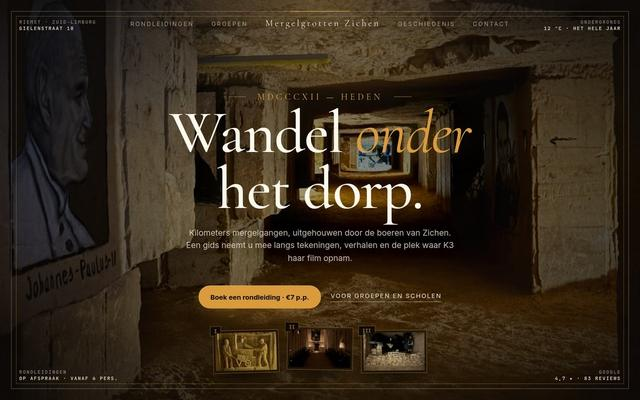
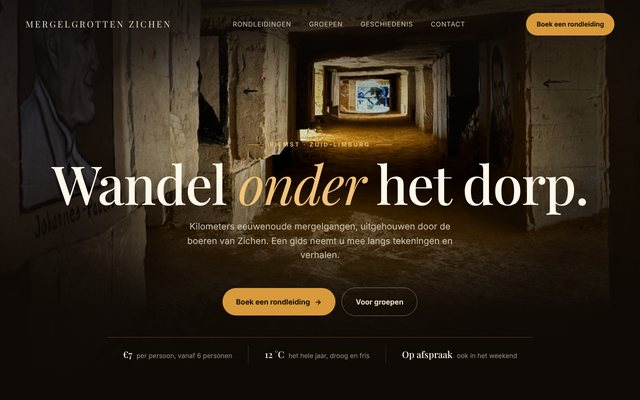
New heroes for Tuinwerken Stas and Mergelgrotten Zichen, only the name under the portrait
Claude-Session: https://claude.ai/code/session_01R6zwQt23oCatvcwJNom8GD

diff --git a/v3/demos/mergel/index.html b/v3/demos/mergel/index.html
@@ -41,6 +41,32 @@ h1 em{font-style:italic;color:var(--amber-2);font-weight:400}
 .band article{border-left:1px solid rgba(217,154,59,.4);padding-left:1.4rem}
 .band h3{font-size:1.5rem;color:#FFF7EA}.band p{margin:.5rem 0 0;font-size:.92rem;color:rgba(234,223,203,.75)}
 </style>
+<style>
+.hx{position:relative;min-height:100vh;min-height:100svh;display:flex;flex-direction:column;align-items:center;justify-content:flex-end;text-align:center;overflow:hidden;background:var(--black)}
+.hx__img{position:absolute;inset:0;width:100%;height:100%;object-fit:cover;object-position:50% 62%}
+.hx::before{content:"";position:absolute;inset:0;z-index:1;background:radial-gradient(42% 46% at 50% 44%,rgba(15,10,6,0) 0%,rgba(15,10,6,.35) 60%,rgba(15,10,6,.8) 100%),linear-gradient(180deg,rgba(15,10,6,.55) 0%,rgba(15,10,6,0) 22%,rgba(15,10,6,0) 42%,rgba(15,10,6,.9) 78%,#0F0A06 100%)}
+.hx__in{position:relative;z-index:2;display:flex;flex-direction:column;align-items:center;padding:0 6vw 2.6rem}
+.hx .kick::after{content:"";width:2rem;height:1px;background:var(--amber)}
+.hx h1{font-size:clamp(3.4rem,8.4vw,8.6rem);max-width:none;margin-top:1rem;line-height:.95;text-shadow:0 10px 50px rgba(0,0,0,.5)}
+.hx .lead{max-width:36rem;margin-left:auto;margin-right:auto}
+.hx .cta{justify-content:center}
+.hx__info{position:relative;z-index:2;list-style:none;margin:0 0 4.6rem;padding:1rem 0 0;display:flex;gap:0;border-top:1px solid rgba(217,154,59,.3)}
+.hx__info li{padding:.2rem 2rem;font-size:.82rem;color:var(--mute)}
+.hx__info li+li{border-left:1px solid rgba(234,223,203,.16)}
+.hx__info b{font-family:var(--serif);font-weight:500;font-size:1.15rem;color:#FFF7EA;margin-right:.3rem}
+@media (max-width:900px){
+ .hx{display:block;min-height:auto}
+ .hx__img{position:relative;height:56vh;min-height:380px;object-position:50% 55%}
+ .hx::before{inset:0 0 auto 0;height:56vh;min-height:380px;background:linear-gradient(180deg,rgba(15,10,6,.6) 0%,rgba(15,10,6,0) 22%,rgba(15,10,6,0) 55%,#0F0A06 100%)}
+ .hx__in{margin-top:-5.5rem}
+ .logo{font-size:.95rem;letter-spacing:.14em;max-width:11rem;line-height:1.3}
+ .hx h1{font-size:clamp(3rem,15vw,4.4rem)}
+ .hx__in{padding:0 6vw 1.8rem}
+ .hx .lead{font-size:1rem}
+ .hx__info{flex-direction:column;gap:.5rem;border-top:0;margin-bottom:5.2rem;padding:0}
+ .hx__info li,.hx__info li+li{border:0;padding:0}
+}
+</style>
 </head>
 <body>
 <header class="top">
@@ -48,22 +74,19 @@ h1 em{font-style:italic;color:var(--amber-2);font-weight:400}
   <nav class="nav"><a>Rondleidingen</a><a>Groepen</a><a>Geschiedenis</a><a>Contact</a></nav>
   <a class="pill" href="#">Boek een rondleiding</a>
 </header>
-<section class="hero">
-  <img src="img/01.jpg" alt="">
-  <div class="hero__in">
-    <div>
-      <span class="kick">Riemst · Zuid-Limburg</span>
-      <h1>Wandel <em>onder</em> het dorp.</h1>
-      <p class="lead">Kilometers eeuwenoude mergelgangen, uitgehouwen door de boeren van Zichen. Een gids neemt u mee langs tekeningen, verhalen en plekken waar de zon altijd schijnt: ondergronds.</p>
-      <div class="cta"><a class="btn btn--a" href="#">Boek een rondleiding →</a><a class="btn btn--g" href="#">Voor groepen</a><span class="price"><b>€7</b> per persoon, vanaf 6</span></div>
-    </div>
-    <div class="rev">
-      <div class="score"><b>4,7</b><span><span class="stars">★★★★★</span><small>83 Google-reviews</small></span></div>
-      <p>“We wisten niet wat ons te wachten stond, maar stonden met onze mond vol tanden vanaf dat we naar beneden wandelden.”</p>
-      <cite>Keennan D.</cite>
-    </div>
+<section class="hx">
+  <img class="hx__img" src="img/01.jpg" alt="Verlichte mergelgang onder Zichen">
+  <div class="hx__in">
+    <span class="kick">Riemst · Zuid-Limburg</span>
+    <h1>Wandel <em>onder</em> het dorp.</h1>
+    <p class="lead">Kilometers eeuwenoude mergelgangen, uitgehouwen door de boeren van Zichen. Een gids neemt u mee langs tekeningen en verhalen.</p>
+    <div class="cta"><a class="btn btn--a" href="#">Boek een rondleiding <span aria-hidden="true">→</span></a><a class="btn btn--g" href="#">Voor groepen</a></div>
   </div>
-  <div class="facts"><div><b>12 °C</b>het hele jaar, droog en fris</div><div><b>Op afspraak</b>ook in het weekend</div><div><b>Families &amp; groepen</b>scholen, bedrijven, verenigingen</div><div><b>K3</b>nam hier haar film op</div></div>
+  <ul class="hx__info">
+    <li><b>€7</b> per persoon, vanaf 6 personen</li>
+    <li><b>12 °C</b> het hele jaar, droog en fris</li>
+    <li><b>Op afspraak</b> ook in het weekend</li>
+  </ul>
 </section>
 <section class="sec">
   <div>

diff --git a/v3/demos/stas/index.html b/v3/demos/stas/index.html
@@ -42,6 +42,28 @@ h1 em{font-style:italic;color:#DCC6A6}
 .quote cite b{display:block;color:var(--ink);font-weight:700}
 .quote img{width:100%;aspect-ratio:4/5;object-fit:cover;border-radius:1rem}
 </style>
+<style>
+.hx{position:relative;min-height:100vh;min-height:100svh;display:flex;flex-direction:column;justify-content:flex-end;color:#fff;overflow:hidden;background:var(--moss)}
+.hx__img{position:absolute;inset:0;width:100%;height:100%;object-fit:cover;object-position:62% 58%;transform:scale(1.02)}
+.hx::before{content:"";position:absolute;inset:0;z-index:1;background:linear-gradient(90deg,rgba(28,46,36,.94) 0%,rgba(28,46,36,.78) 34%,rgba(28,46,36,.15) 66%,rgba(28,46,36,0) 100%),linear-gradient(0deg,rgba(23,32,27,.75) 0%,rgba(23,32,27,0) 34%),linear-gradient(180deg,rgba(23,32,27,.45) 0%,rgba(23,32,27,0) 20%)}
+.hx__in{position:relative;z-index:2;padding:0 4vw 3.4rem;max-width:52rem}
+.hx h1{font-size:clamp(3rem,5.6vw,5.6rem);max-width:12.5ch;margin-top:1.1rem;line-height:.98}
+.hx .lead{max-width:28rem}
+.hx__svc{position:relative;z-index:2;list-style:none;margin:0;padding:0 4vw;display:grid;grid-template-columns:repeat(4,1fr);border-top:1px solid rgba(255,255,255,.22)}
+.hx__svc li{padding:1.25rem 1.4rem 1.6rem 0;font-size:.82rem;color:rgba(255,255,255,.72)}
+.hx__svc li+li{padding-left:1.4rem;border-left:1px solid rgba(255,255,255,.14)}
+.hx__svc b{display:block;font-family:var(--serif);font-weight:400;font-size:1.35rem;color:#fff;margin-bottom:.15rem}
+@media (max-width:900px){
+ .hx{min-height:auto;display:block}
+ .hx__img{position:relative;height:58vh;min-height:360px;transform:none;object-position:60% 70%}
+ .hx::before{display:none}
+ .hx__in{padding:2.2rem 6vw 2.4rem;max-width:none}
+ .hx h1{font-size:clamp(2.6rem,11vw,3.4rem)}
+ .hx__svc{grid-template-columns:1fr 1fr;padding:0 6vw 2rem}
+ .hx__svc li,.hx__svc li+li{padding:1rem .8rem 1rem 0;border-left:0;border-bottom:1px solid rgba(255,255,255,.12)}
+ .top{background:linear-gradient(180deg,rgba(23,32,27,.55),transparent)}
+}
+</style>
 </head>
 <body>
 <header class="top">
@@ -49,18 +71,20 @@ h1 em{font-style:italic;color:#DCC6A6}
   <nav class="nav"><a>Diensten</a><a>Projecten</a><a>Over ons</a><a>Contact</a></nav>
   <a class="pill" href="#">Offerte aanvragen</a>
 </header>
-<section class="hero">
-  <div class="hero__txt">
-    <span class="kick">Tongeren &amp; omgeving</span>
+<section class="hx">
+  <img class="hx__img" src="img/08.jpg" alt="Tuin met koivijver, kiezelterras en haag in Tongeren">
+  <div class="hx__in">
+    <span class="kick">Tuinaanleg &amp; onderhoud · Tongeren</span>
     <h1>Een tuin waar u <em>elke dag</em> van geniet.</h1>
     <p class="lead">Aanleg, onderhoud en snoeiwerk door één vakman die uw tuin kent. Netjes afgewerkt, het hele jaar door.</p>
-    <div class="cta"><a class="btn btn--w" href="#">Vraag een offerte →</a><a class="btn btn--g" href="#">Bel Andrija</a></div>
-    <div class="meta"><div><b>150+</b>tevreden klanten</div><div><b>5</b>diensten, één aanspreekpunt</div><div><b>Ma–vr</b>9.30 tot 17.00</div></div>
+    <div class="cta"><a class="btn btn--w" href="#">Vraag een offerte <span aria-hidden="true">→</span></a><a class="btn btn--g" href="#">Bel Andrija</a></div>
   </div>
-  <div class="hero__img">
-    <img src="img/08.jpg" alt="">
-    <div class="tag"><b>Project · Tongeren</b>Vijver, kiezelterras en haag, aangelegd en in onderhoud.</div>
-  </div>
+  <ul class="hx__svc" aria-label="Diensten">
+    <li><b>Aanleg</b>Terras, vijver en borders</li>
+    <li><b>Snoeiwerken</b>Hagen, struiken en bomen</li>
+    <li><b>Gazon</b>Aanleg, herstel en maaien</li>
+    <li><b>Onderhoud</b>Vaste rondes, het hele jaar</li>
+  </ul>
 </section>
 <section class="sec">
   <span class="kick" style="color:var(--moss)">Onze diensten</span>

diff --git a/index.html b/index.html
@@ -457,7 +457,7 @@
         <div class="fl portret__chip portret__chip--a" data-depth="0.3" aria-hidden="true"><div class="fl__bob"><span class="chip"><svg viewBox="0 0 24 24"><path d="M4 20l4-1 10-10-3-3L5 16l-1 4zM14 6l3 3"/></svg><span data-i18n="ch_design">Ontwerp</span></span></div></div>
         <div class="fl portret__chip portret__chip--b" data-depth="0.5" aria-hidden="true"><div class="fl__bob fl__bob--2"><span class="chip"><svg viewBox="0 0 24 24"><path d="M8 7l-5 5 5 5M16 7l5 5-5 5"/></svg><span data-i18n="ch_build">Bouw</span></span></div></div>
         <div class="fl portret__chip portret__chip--c" data-depth="0.22" aria-hidden="true"><div class="fl__bob fl__bob--3"><span class="chip"><svg viewBox="0 0 24 24"><path d="M12 20s-7-4.4-7-10a4 4 0 0 1 7-2.6A4 4 0 0 1 19 10c0 5.6-7 10-7 10z"/></svg><span data-i18n="ch_care">Nazorg</span></span></div></div>
-        <figcaption class="portret__cap"><b>Stijn Vranken</b><span data-i18n="ab_place">Limburg · België</span></figcaption>
+        <figcaption class="portret__cap"><b>Stijn Vranken</b></figcaption>
       </figure>
     </section>
 
